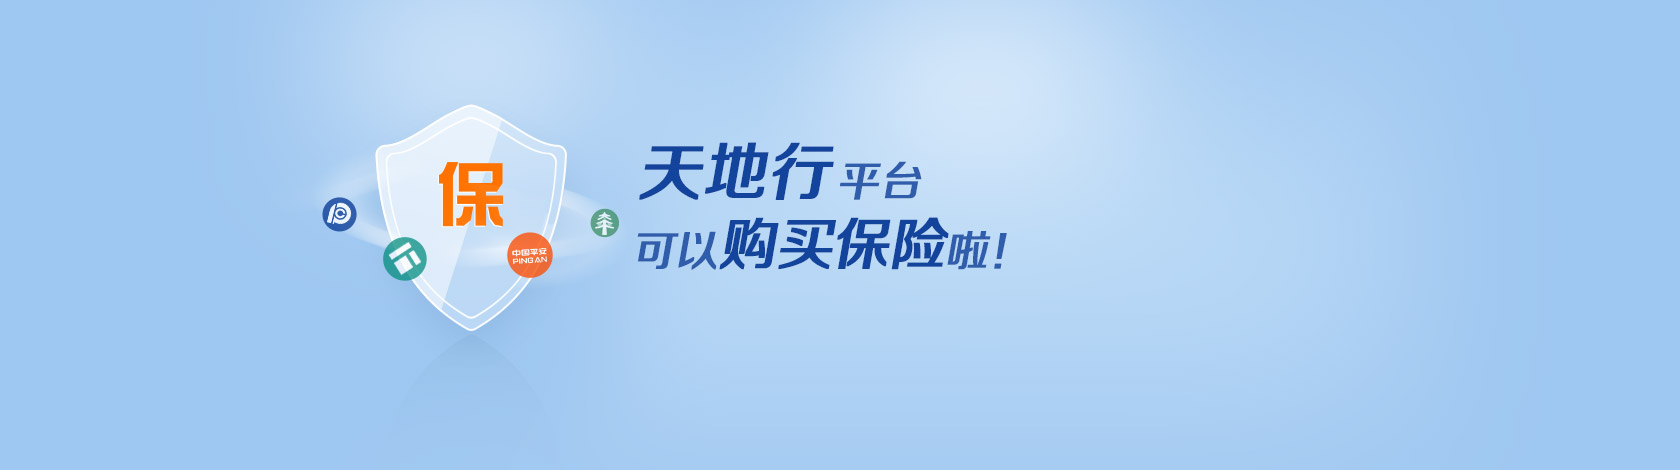
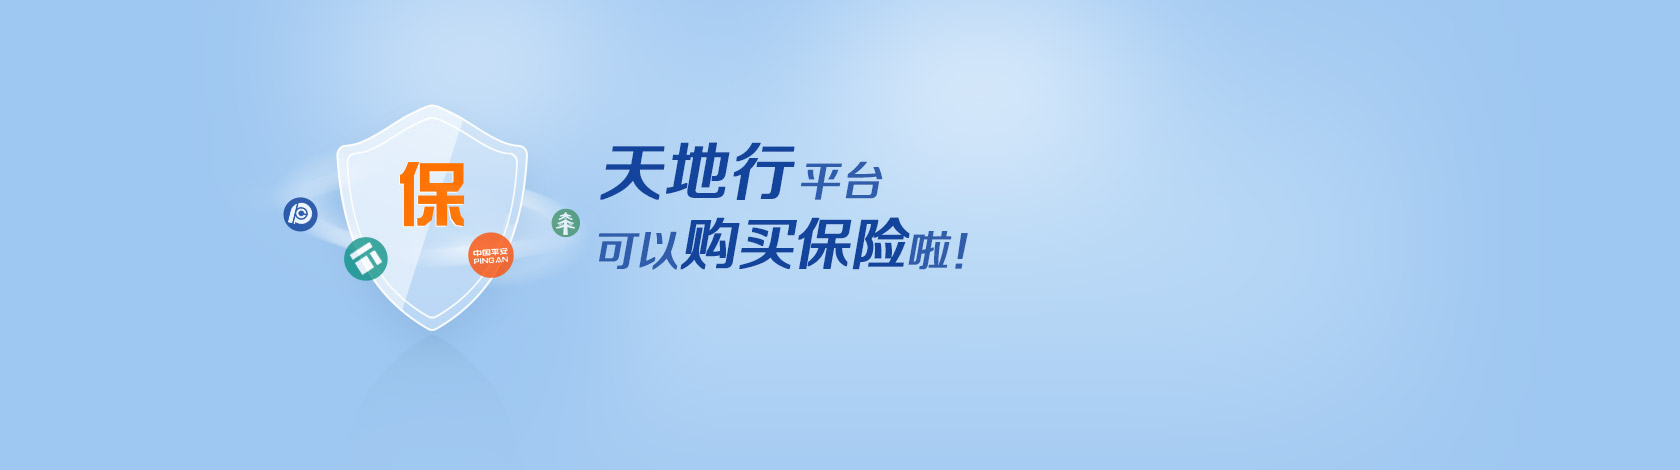
修改采购商登录页 图片更换 样式调整

Changed region(s): [[0.1548, 0.2085, 0.619, 0.7149]]

diff --git a/采购商/登陆注册/登录（新）.html b/采购商/登陆注册/登录（新）.html
@@ -92,7 +92,7 @@
                 </div>
                 <div class="row small">
                     <i></i>
-                    <input type="text" autocomplete="off" name="auth_code" value="" />
+                    <input type="text" autocomplete="off" name="captcha" value="" />
                     <label class="cover" style="left:8px">验证码</label>
                     <a class="authcode" href="javascript:void(0);" title="点击刷新" style="" alt="点击刷新"><!--<img style="width:99px;height:40px;" src="http://o.op.com:8180/tops-front-operator-biz/captcha/gen"/>-->
 					<img src="../../static/images/login/code.png" width="99" height="40" />
@@ -159,8 +159,8 @@
 				<dl>
 					<dt class="safetyPay clearfix"></dt>
 					<dd class="servicesType">安全支付</dd>
-					<dd class="servicesCon">CATA中国航空运输协会资格认证<br>
-IATA国际航空运输协会资质认证</dd>
+					<dd class="servicesCon">https支付通道，具有安全性的ssl加密<br>
+                        传输协议，严密身份验证</dd>
 					<dd class="ddBtn"><button type="button" >查看详情</button></dd>
 				</dl>
 			</li>

diff --git a/static/css/store_v2/store_register.css b/static/css/store_v2/store_register.css
@@ -285,8 +285,18 @@
 
 /*图片轮转*/
 .slider_nav {z-index:10;position:absolute;}
-.slider_nav a {float:left;text-indent:-1000em;margin:0 6px;border:none;background:url(../../images/login/rotate.png) no-repeat -13px 0;display:block;width:13px;height:13px;overflow:hidden;}
-.slider_nav .activeSlide {background-position:0 0;}
+.slider_nav a {
+    float:left;
+    text-indent:-1000em;
+    margin:0 6px;
+    border:none;
+    background:url(../../images/login/store/rotate.png) no-repeat 0 0;
+    display:block;
+    width:11px;
+    height:12px;
+    overflow:hidden;
+}
+.slider_nav .activeSlide {background-position:-11px 0;}
 .fullscreen {
     width:100% !important;
     height:100%;
@@ -461,7 +471,7 @@
     border: none;
     background: transparent;
 }
-.login_panel input[name=auth_code] {
+.login_panel input[name=captcha] {
     margin: -10px 0 0 5px;
 }
 .login_panel .first {
